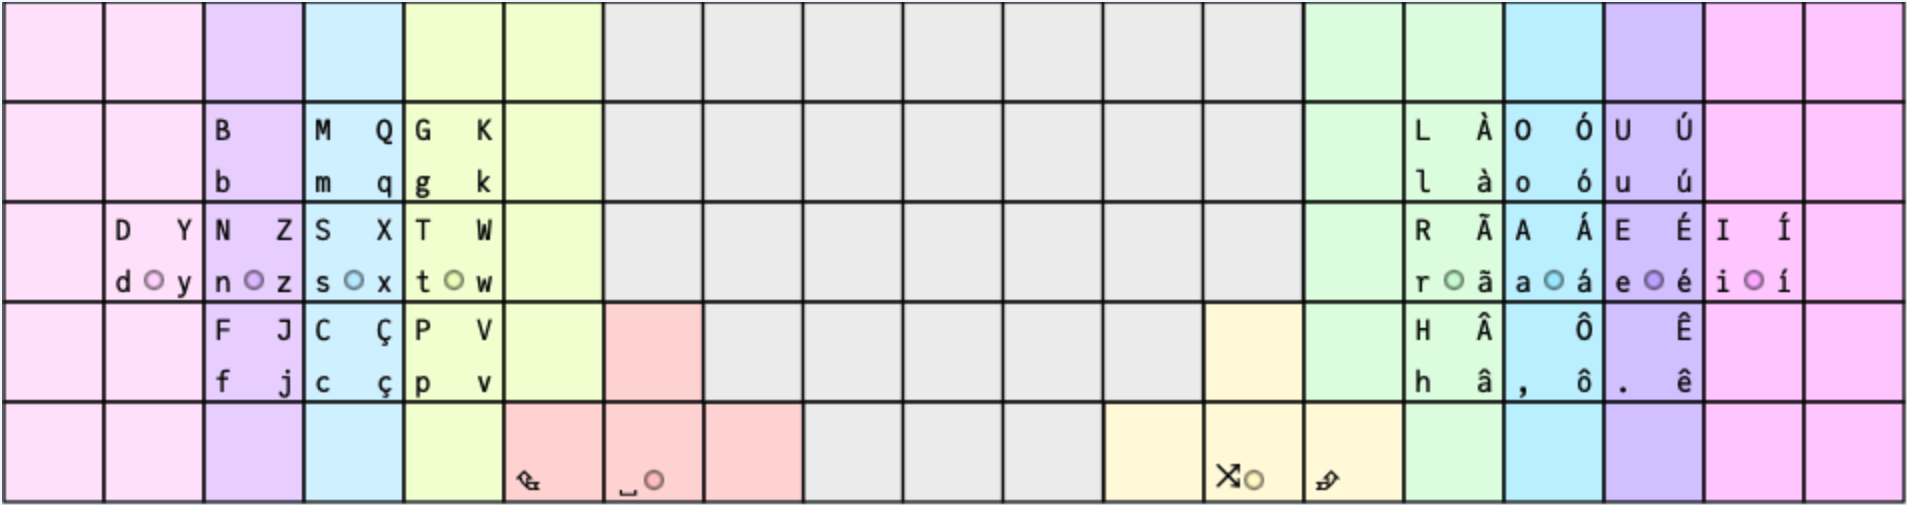
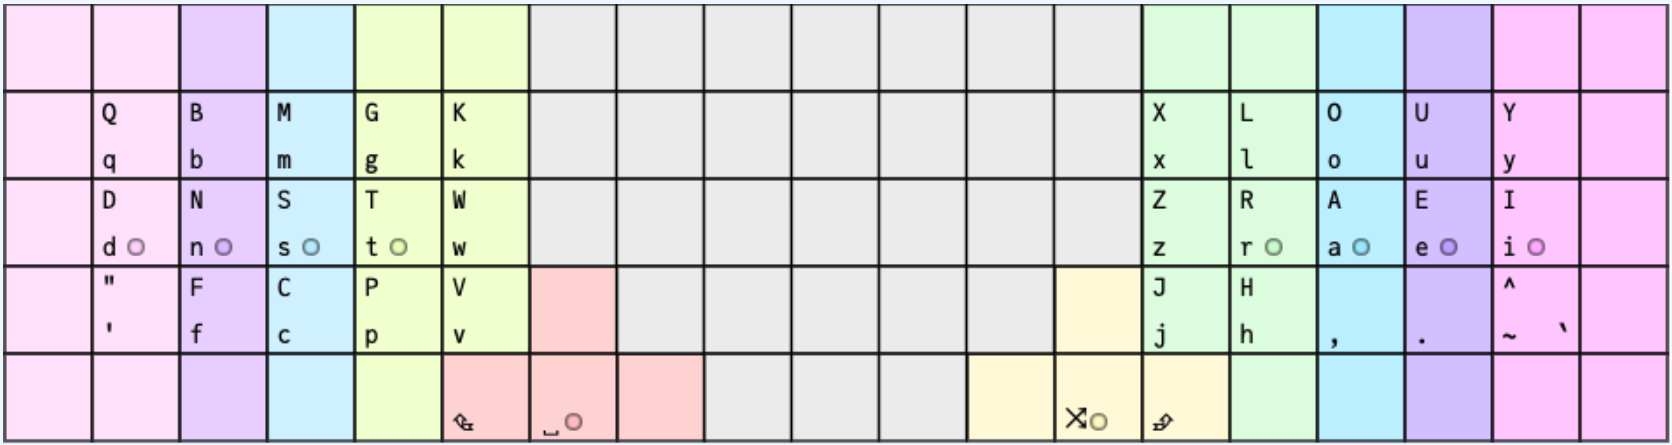
improve perf docs

Changed region(s): [[0.0, 0.0, 1.0, 1.0], [0.933, 0.7011, 0.9641, 0.7596], [0.5598, 0.5843, 0.5909, 0.6135]]

diff --git a/README.md b/README.md
@@ -16,8 +16,8 @@ This is a variation of Romak that can be used by anyone with a 34 keys columnar 
 
 ## Romak 30
 
-This is a variation of Romak that can be used with 30 keys, in the format 23332+2, with boards like the Hummingbird and the Rommana.
-In this variation, all alphas remain in the base layer, and common symbols like comma and dot are moved to combos, like HZ for comma and ZJ for dot.
+This is a variation of Romak that can be used with 30 keys, in the format 23332+2, with boards like the Hummingbird and Rommana.
+In this variation, all alphas remain in the base layer, and common symbols like comma and dot are moved to combos, like HK for comma and KX for dot.
 
 ```
   Q  B  M  G  W    Z  L  O  U  Y
